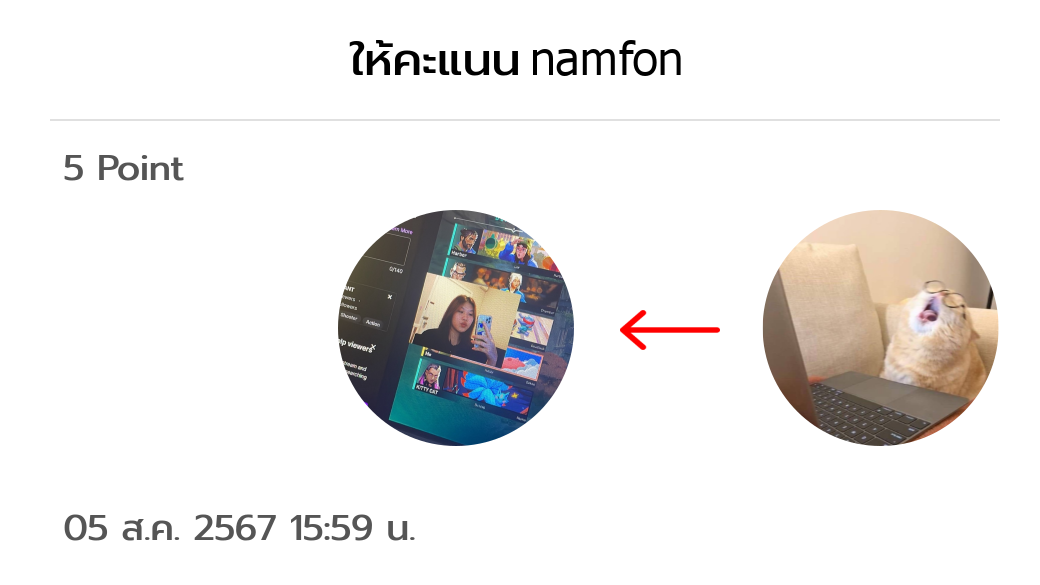
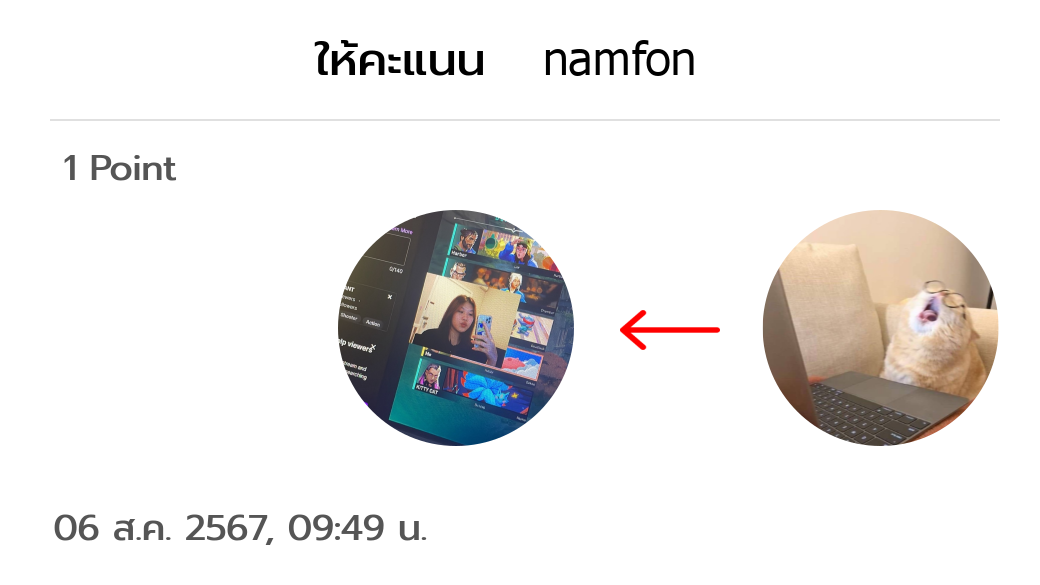
canvas

Changed region(s): [[0.3077, 0.0615, 0.6769, 0.1538], [0.0308, 0.8615, 0.4308, 0.9231], [0.0615, 0.2462, 0.1846, 0.3077]]

diff --git a/app/model/canvas.js b/app/model/canvas.js
@@ -3,6 +3,7 @@ const fs = require('fs')
 const { createCanvas, loadImage, registerFont } = require('canvas')
 const path = require('path');
 const LINE_SDK = require('./lineWebhook');
+const transfer = require('./transfer');
 
 var Canvas = function () {
     this.created_at = new Date()
@@ -32,31 +33,7 @@ Canvas.transferSlip = function (transferInput) {
                 return;
             }
 
-            // Array of month names
-            const monthNames = [
-                'January', 'February', 'March', 'April', 'May', 'June',
-                'July', 'August', 'September', 'October', 'November', 'December'
-            ];
-
-            // Array of thai month names
-            const monthNamesTH = [
-                'ม.ค.', 'ก.พ.', 'มี.ค.', 'เม.ย.', 'พ.ค.', 'มิ.ย.',
-                'ก.ค.', 'ส.ค.', 'ก.ย.', 'ต.ค.', 'พ.ย.', 'ธ.ค.'
-            ];
-
-            // Generate a timestamp in the format day-MonthName-year
-            const now = new Date();
-            const day = String(now.getDate()).padStart(2, '0');
-            const month = monthNames[now.getMonth()]; // Get month name from array
-            const monthTH = monthNamesTH[now.getMonth()]; // Get month name from array
-            const year = now.getFullYear();
-
-            const hours = String(now.getHours()).padStart(2, '0');
-            const minutes = String(now.getMinutes()).padStart(2, '0');
-            const seconds = String(now.getSeconds()).padStart(2, '0');
-
-            const timestamp = `${day}-${month}-${year}_${hours}.${minutes}.${seconds}`;
-            const timestampTH = `${day} ${monthTH} ${year + 543} ${hours}:${minutes} น.`;
+            const Date = timestamp()
 
             // Register the custom font
             const fontPrompt = path.join(__dirname, '../../assets/Prompt/Prompt-Bold.ttf');
@@ -69,25 +46,27 @@ Canvas.transferSlip = function (transferInput) {
 
             ctx.fillStyle = '#fff'
             ctx.fillRect(0, 0, width, height)
-            // ctx.textAlign = 'center'
+            ctx.textAlign = 'center'
             // ctx.textBaseline = 'top'
 
             const receiver_name = receiver.displayName || 'Default Name';
             ctx.fillStyle = '#000'
             ctx.font = '46px Prompt'
-            ctx.fillText(`ให้คะแนน`, 350, 75)
+            ctx.fillText(`ให้คะแนน`, 400, 75)
+
+            const textWidth = ctx.measureText('ให้คะแนน').width;
 
             ctx.fillStyle = '#000'
             ctx.font = '46px Sans'
-            ctx.fillText(`${receiver_name}`, 530, 75)
+            ctx.fillText(`${receiver_name}`, 450 + textWidth, 75)
 
             ctx.fillStyle = '#555555'
             ctx.font = '36px Prompt'
-            ctx.fillText(`${transferData.point_amount} Point`, 63, 180)
+            ctx.fillText(`${transferData.point_amount} Point`, 120, 180)
 
             ctx.fillStyle = '#555555'
             ctx.font = '36px Prompt'
-            ctx.fillText(`${timestampTH}`, 63, 540)
+            ctx.fillText(`${Date.timestampTH}`, 240, 540)
 
             // const buffer = canvas.toBuffer('image/png')
             // fs.writeFileSync('./output.png', buffer)
@@ -134,10 +113,10 @@ Canvas.transferSlip = function (transferInput) {
                     const out = fs.createWriteStream('TransferSlip.png');
                     const stream = canvas.createPNGStream();
                     stream.pipe(out);
-                    out.on('finish', () => console.log('The PNG file was created.'));
+                    out.on('finish', () => console.log('The TransferSlip file was created.'));
 
                     // Save the canvas to a file with the current date as the name
-                    // const outPath = path.join(outputDir, `sender_${timestamp}.png`);
+                    // const outPath = path.join(outputDir, `sender_${Date.timestamp}.png`);
                     // const outFile = fs.createWriteStream(outPath);
                     // const streamFile = canvas.createPNGStream();
                     // streamFile.pipe(outFile);
@@ -152,6 +131,198 @@ Canvas.transferSlip = function (transferInput) {
             reject(err)
         }
     })
+}
+
+Canvas.receiveSlip = function (receiveInput) {
+    return new Promise(async (resolve, reject) => {
+        let response = {
+            status: true,
+            errMsg: '',
+            data: [],
+            statusCode: 200
+        }
+
+        let receiveData = {
+            sender_id: receiveInput.sender_id,
+            receiver_id: receiveInput.receiver_id,
+            point_amount: receiveInput.point_amount,
+        }
+
+        try {
+            const sender = await LINE_SDK.getProfile(receiveData.sender_id)
+            const receiver = await LINE_SDK.getProfile(receiveData.receiver_id)
+
+            if (!sender && !receiver) {
+                console.error('No profile data returned');
+                return;
+            }
+
+            const Date = timestamp()
+
+            // Register the custom font
+            const fontPrompt = path.join(__dirname, '../../assets/Prompt/Prompt-Bold.ttf');
+            registerFont(fontPrompt, { family: 'Prompt' });
+
+            const width = 1040
+            const height = 585
+            const canvas = createCanvas(width, height)
+            const ctx = canvas.getContext('2d')
+
+            ctx.fillStyle = '#fff'
+            ctx.fillRect(0, 0, width, height)
+            ctx.textAlign = 'center'
+            // ctx.textBaseline = 'top'
+            const sender_name = sender.displayName || 'Default Name';
+            ctx.fillStyle = '#000'
+            ctx.font = '46px Prompt'
+            ctx.fillText(`ได้รับคะแนนจาก`, 400, 75)
+
+            const textWidth = ctx.measureText('ได้รับคะแนนจาก').width;
+
+            ctx.fillStyle = '#000'
+            ctx.font = '46px Sans'
+            ctx.fillText(`${sender_name}`, 380 + textWidth, 75)
+
+            ctx.fillStyle = '#555555'
+            ctx.font = '36px Prompt'
+            ctx.fillText(`${receiveData.point_amount} Point`, 940, 180)
+
+            ctx.fillStyle = '#555555'
+            ctx.font = '36px Prompt'
+            ctx.fillText(`${Date.timestampTH}`, 815, 540)
+
+            // const buffer = canvas.toBuffer('image/png')
+            // fs.writeFileSync('./output.png', buffer)
+
+            ctx.strokeStyle = '#C1C1C1'
+            ctx.beginPath()
+            ctx.lineTo(1000, 120)
+            ctx.lineTo(50, 120)
+            ctx.stroke()
+
+            // Function to draw a rounded image
+            function drawRoundedImage(ctx, image, x, y, width, height) {
+                const radius = Math.min(width, height) / 2;
+                ctx.save();
+                ctx.beginPath();
+                ctx.arc(x + radius, y + radius, radius, 0, Math.PI * 2, true);
+                ctx.closePath();
+                ctx.clip();
+                ctx.drawImage(image, x, y, width, height);
+                ctx.restore();
+            }
+
+            // Ensure the output directory exists
+            const outputDir = 'eSlip_images';
+            if (!fs.existsSync(outputDir)) {
+                fs.mkdirSync(outputDir);
+            }
+
+            const receiver_img = receiver.pictureUrl
+            const sender_img = sender.pictureUrl
+            const arrowPath = path.join(__dirname, '../../assets/receiveArrow.png');
+
+            Promise.all([loadImage(receiver_img), loadImage(sender_img), loadImage(arrowPath)])
+                .then(([receiver_img, sender_img, arrowImg]) => {
+
+                    // Draw the image onto the canvas
+                    drawRoundedImage(ctx, sender_img, 45, 210, 236, 236);
+
+                    drawRoundedImage(ctx, receiver_img, 450, 210, 236, 236);
+
+                    ctx.drawImage(arrowImg, 320, 310, 100, 40);
+
+                    // Save the canvas to a file
+                    const receiveOut = fs.createWriteStream('ReceiveSlip.png');
+                    const stream = canvas.createPNGStream();
+                    stream.pipe(receiveOut);
+                    receiveOut.on('finish', () => console.log('The ReceiveSlip file was created.'));
+
+                    // Save the canvas to a file with the current date as the name
+                    // const outPath = path.join(outputDir, `receiver_${Date.timestamp}.png`);
+                    // const outFile = fs.createWriteStream(outPath);
+                    // const streamFile = canvas.createPNGStream();
+                    // streamFile.pipe(outFile);
+                    // outFile.on('finish', () => console.log(`The PNG file was created at ${outPath}`));
+                    resolve()
+                })
+                .catch((err) => {
+                    console.error('Failed to load images:', err);
+                    reject(err)
+                });
+        } catch (err) {
+            reject(err)
+        }
+    })
+}
+Canvas.pointBalance = function (user_id) {
+    return new Promise(async (resolve, reject) => {
+        let response = {
+            status: true,
+            errMsg: '',
+            data: [],
+            statusCode: 200
+        }
+        try {
+
+            const profile = LINE_SDK.getProfile(user_id)
+
+            if (!profile) {
+                console.error('No profile data returned');
+                return;
+            }
+
+            console.log(profile.displayName)
+
+            await transfer.getBalanceByUserId(user_id)
+                .then((result) => {
+                    console.log(result)
+                    console.log(result.data)
+
+                    response.data = result
+                    resolve()
+                }).catch((err) => {
+                    reject(err)
+                });
+        } catch (err) {
+
+        }
+    })
+}
+
+function timestamp() {
+    // Array of month names
+    const monthNames = [
+        'January', 'February', 'March', 'April', 'May', 'June',
+        'July', 'August', 'September', 'October', 'November', 'December'
+    ];
+
+    // Array of thai month names
+    const monthNamesTH = [
+        'ม.ค.', 'ก.พ.', 'มี.ค.', 'เม.ย.', 'พ.ค.', 'มิ.ย.',
+        'ก.ค.', 'ส.ค.', 'ก.ย.', 'ต.ค.', 'พ.ย.', 'ธ.ค.'
+    ];
+
+    // Generate a timestamp in the format day-MonthName-year
+    const now = new Date();
+    const day = String(now.getDate()).padStart(2, '0');
+    const month = monthNames[now.getMonth()]; // Get month name from array
+    const monthTH = monthNamesTH[now.getMonth()]; // Get month name from array
+    const year = now.getFullYear();
+
+    const hours = String(now.getHours()).padStart(2, '0');
+    const minutes = String(now.getMinutes()).padStart(2, '0');
+    const seconds = String(now.getSeconds()).padStart(2, '0');
+
+    const timestamp = `${day}-${month}-${year}_${hours}.${minutes}.${seconds}`;
+    const timestampTH = `${day} ${monthTH} ${year + 543}, ${hours}:${minutes} น.`;
+
+    const timeData = {
+        timestamp: timestamp,
+        timestampTH: timestampTH
+    }
+
+    return timeData
 }
 
 module.exports = Canvas

diff --git a/app/model/transfer.js b/app/model/transfer.js
@@ -1,5 +1,5 @@
 const sql = require('../../configs/db');
-const Canvas = require('./Canvas');
+const Canvas = require('./canvas');
 
 var Transfer = function () {
     this.created_at = new Date()
@@ -141,6 +141,7 @@ Transfer.transferPoint = function (transferInput) {
                                                 // If successful
                                                 response.data = { message: 'Transfer successful' };
                                                 Canvas.transferSlip(transferInput)
+                                                Canvas.receiveSlip(transferInput)
                                                 resolve(response);
                                             } else {
                                                 // is not effective

diff --git a/app/routes/route.js b/app/routes/route.js
@@ -7,6 +7,7 @@ module.exports = function (app) {
   var lineSdk = require('../controller/lineWebhook');
   var Users = require('../controller/users');
   const Transfer = require('../controller/transfer');
+  const Canvas = require('../controller/canvas');
 
 
   app.route("/api/test").get(test.Test);
@@ -19,4 +20,5 @@ module.exports = function (app) {
   app.route("/api/void").post(Transfer.voidPoint);
   app.route("/api/invoice").post(Transfer.getDataByInvoiceNum);
   app.route("/api/voidEarn").post(Transfer.voidEarn);
+  app.route("/api/point").post(Canvas.pointBalance);
 }

diff --git a/app/controller/canvas.js b/app/controller/canvas.js
@@ -1,0 +1,12 @@
+const Canvas = require('../model/canvas');
+
+exports.pointBalance = async function (req, res) {
+    const user_id = req.body.user_id
+    console.log('user_id:', user_id);
+    await Canvas.pointBalance(user_id)
+        .then((response) => {
+            res.status(response.statusCode).send(response)
+        }).catch((err) => {
+            res.status(400).send(err)
+        });
+}
